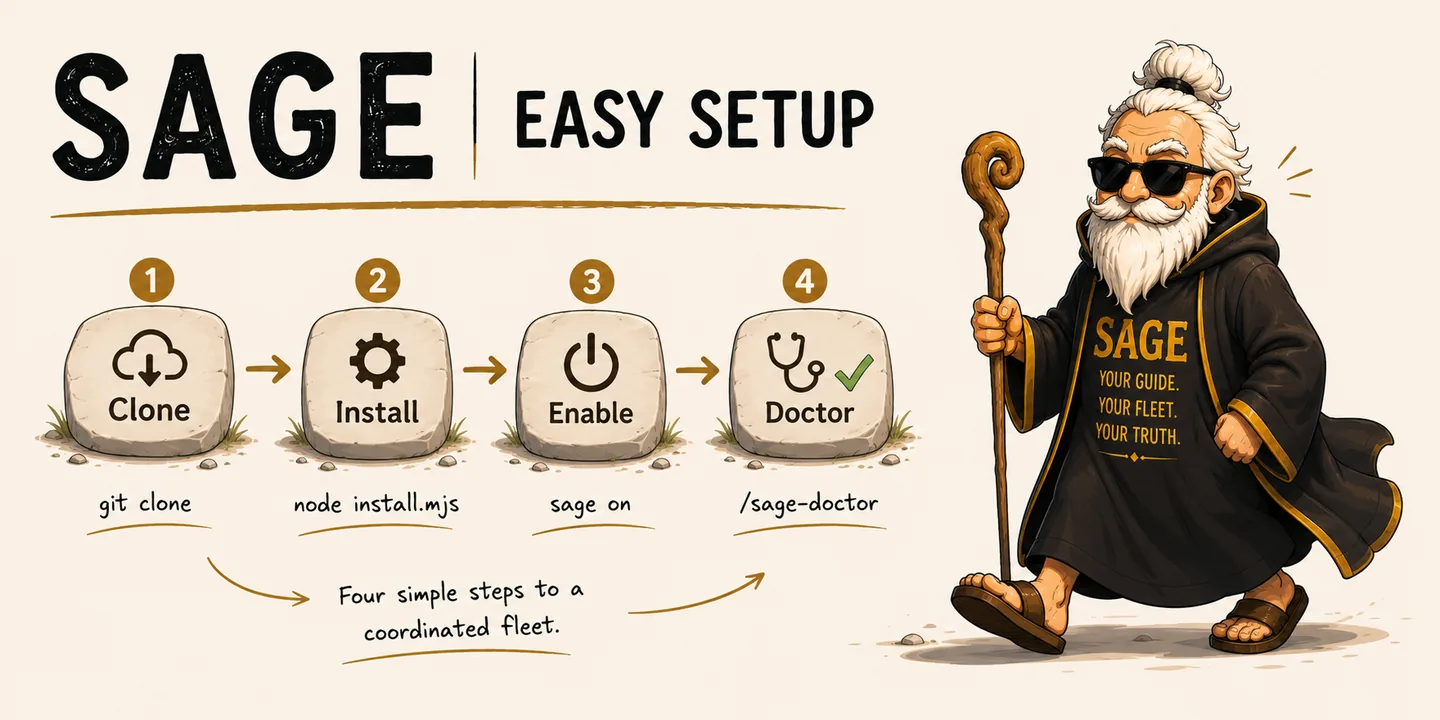
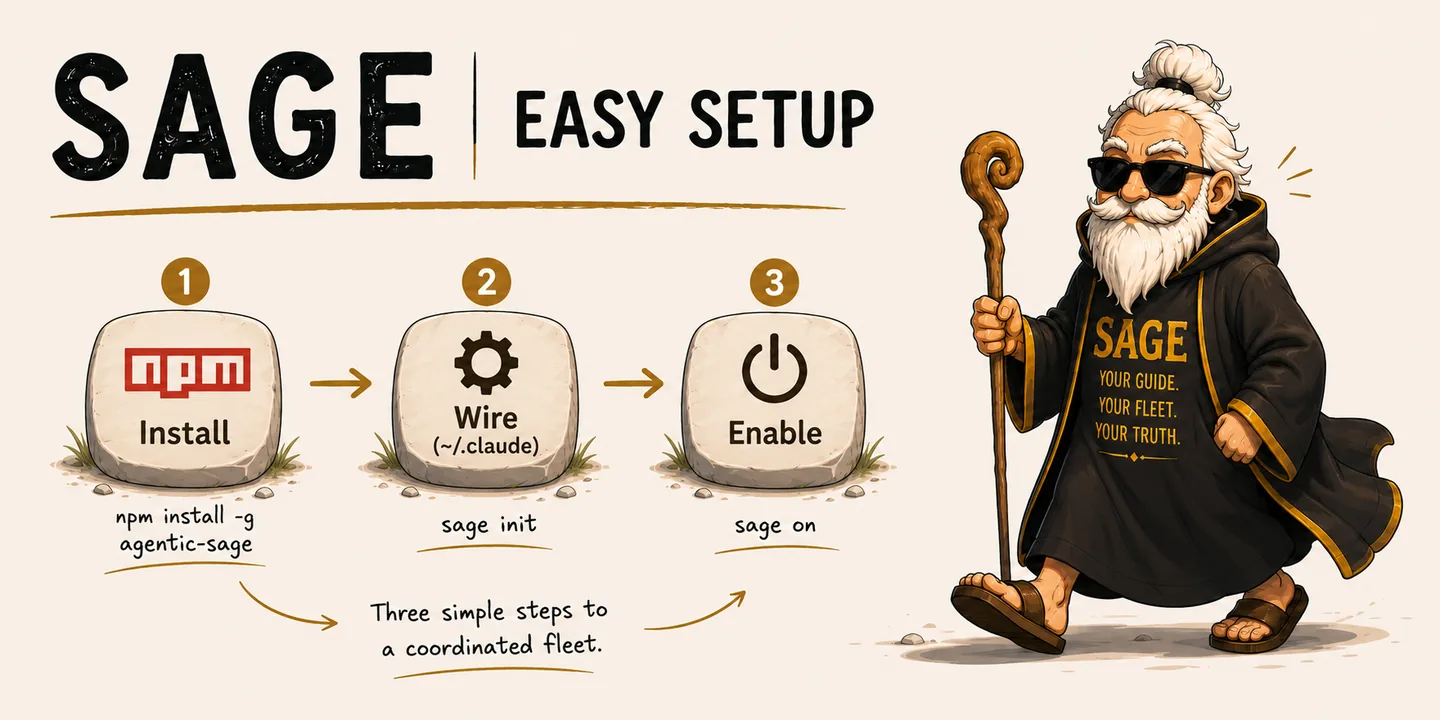
feat(setup): npm-first setup image (Install → Wire → Enable)

diff --git a/index.html b/index.html
@@ -324,7 +324,7 @@
         <source srcset="/assets/sage-setup.avif" type="image/avif">
         <source srcset="/assets/sage-setup.webp" type="image/webp">
         <img src="/assets/sage-setup.webp" width="1440" height="720"
-             alt="SAGE four-step setup diagram: Clone → Install → Enable → Doctor"
+             alt="SAGE easy setup: three steps — Install (npm install -g agentic-sage), Wire (sage init), Enable (sage on)"
              style="display:block;width:100%;height:auto;opacity:0.92;">
       </picture>
     </div>